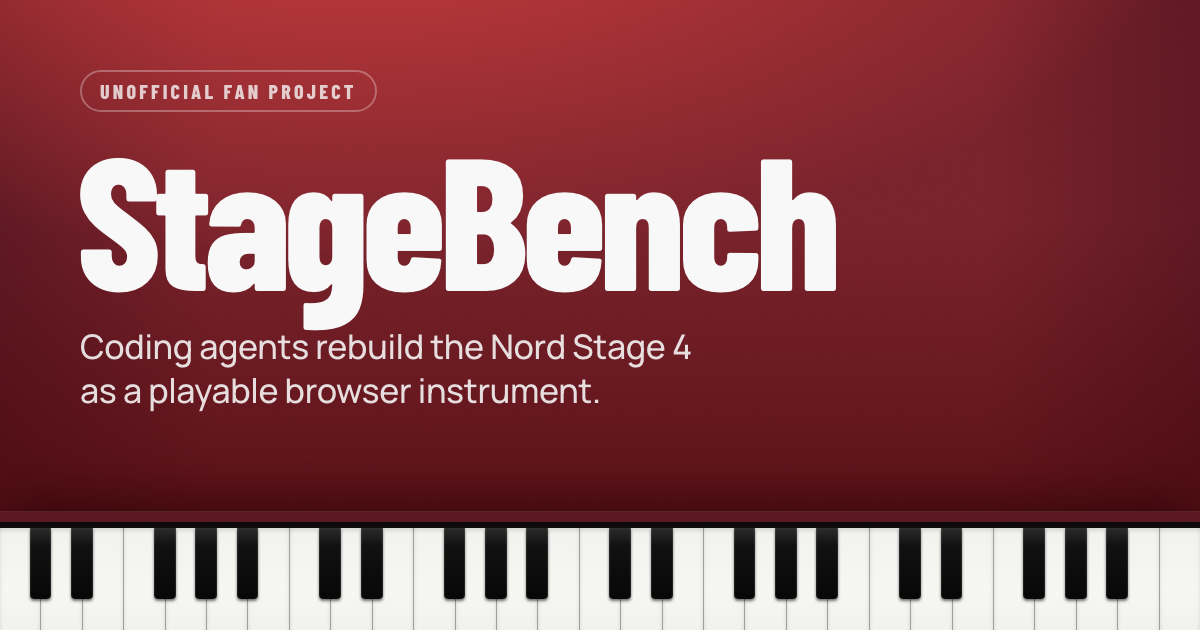
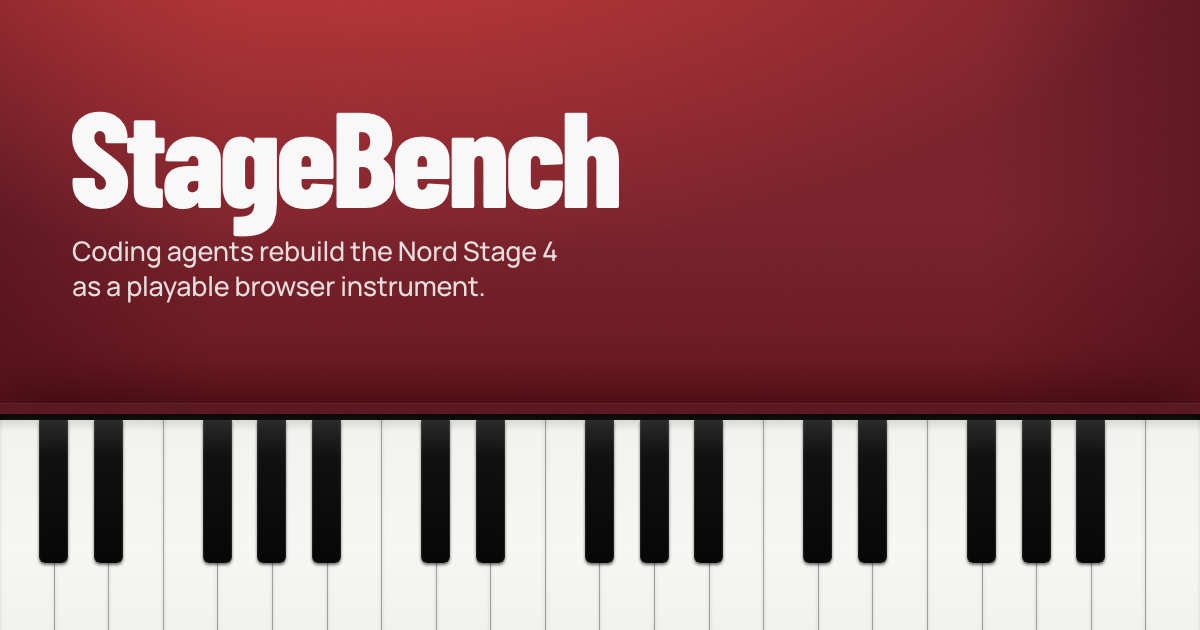
Enlarge OG keybed, shrink type, drop eyebrow pill

diff --git a/scripts/og-image.html b/scripts/og-image.html
@@ -56,32 +56,21 @@
 
       .copy {
         position: absolute;
-        top: 70px;
-        left: 80px;
+        top: 96px;
+        left: 72px;
       }
 
-      /* .header-eyebrow at card scale. */
-      .eyebrow {
-        display: inline-block;
-        padding: 9px 18px;
-        border: 2px solid color-mix(in oklch, var(--white) 30%, transparent);
-        border-radius: 999px;
-        color: color-mix(in oklch, var(--white) 78%, transparent);
-        font: 800 20px/1 'Barlow Condensed', sans-serif;
-        letter-spacing: .16em;
-        text-transform: uppercase;
-      }
 
       h1 {
-        margin: 24px 0 0 -4px;
-        font: 800 188px/.86 'Barlow Condensed', sans-serif;
+        margin: 0 0 0 -3px;
+        font: 800 136px/.86 'Barlow Condensed', sans-serif;
         letter-spacing: -.035em;
       }
 
       p {
-        margin: 26px 0 0;
+        margin: 20px 0 0;
         color: color-mix(in oklch, var(--white) 88%, transparent);
-        font-size: 34px;
+        font-size: 27px;
         font-weight: 500;
         line-height: 1.3;
         letter-spacing: -.01em;
@@ -92,8 +81,8 @@
         position: absolute;
         left: 0;
         right: 0;
-        bottom: -14px;
-        height: 132px;
+        bottom: -24px;
+        height: 250px;
         display: flex;
         padding-top: 6px;
         border-top: 10px solid #591822;
@@ -108,7 +97,7 @@
         position: relative;
         flex: 1;
         border-left: 1px solid oklch(24% 0.01 60 / .4);
-        border-radius: 0 0 5px 5px;
+        border-radius: 0 0 8px 8px;
         background: linear-gradient(180deg, #d8d8d5 0%, #f2f2ef 5%, #f6f6f3 55%, #f1f1ee 90%, #d9d8d4 96%, #b9b8b4 100%);
         box-shadow: inset 0 -4px 4px oklch(0% 0 0 / .12);
       }
@@ -122,7 +111,7 @@
         right: -27%;
         width: 54%;
         height: 61%;
-        border-radius: 0 0 4px 4px;
+        border-radius: 0 0 6px 6px;
         background: linear-gradient(180deg, #2b2b2b 0%, #111 25%, #0a0a0a 78%, #070707 100%);
         box-shadow:
           0 2px 3px oklch(0% 0 0 / .55),
@@ -133,7 +122,6 @@
   </head>
   <body>
     <div class="copy">
-      <span class="eyebrow">Unofficial fan project</span>
       <h1>StageBench</h1>
       <p>Coding agents rebuild the Nord Stage 4<br />as a playable browser instrument.</p>
     </div>
@@ -141,7 +129,7 @@
     <script>
       // C-to-C octaves: a black key follows every white key except E and B.
       const keys = document.getElementById('keys')
-      const WHITE_KEYS = 29
+      const WHITE_KEYS = 22
       for (let i = 0; i < WHITE_KEYS; i++) {
         const key = document.createElement('div')
         key.className = 'white'
